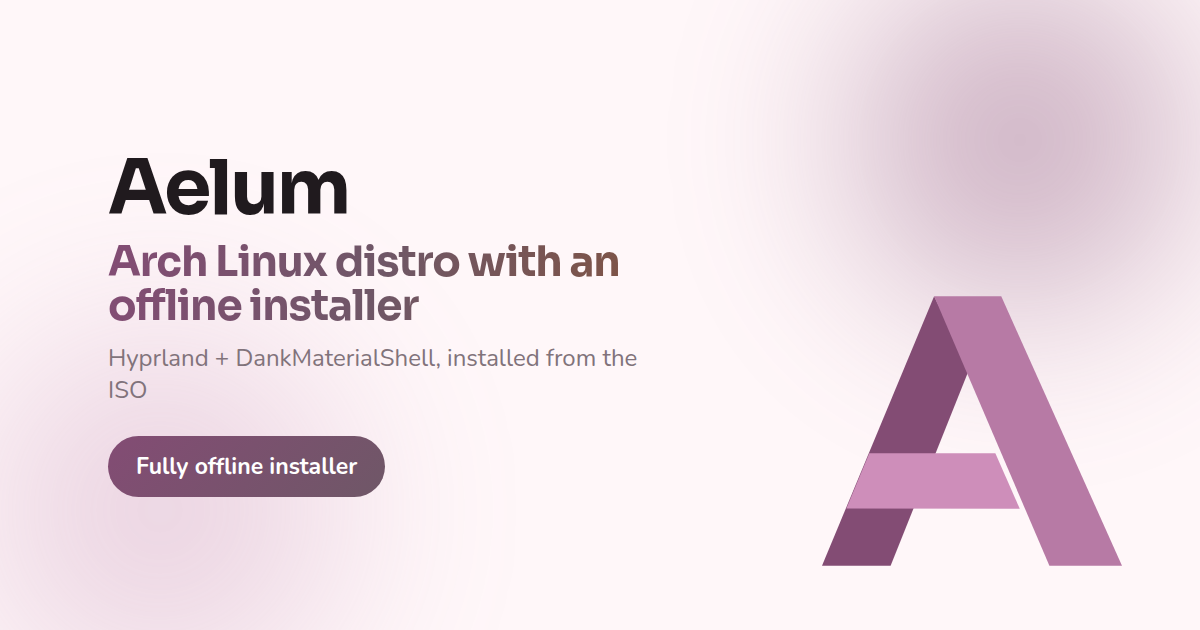
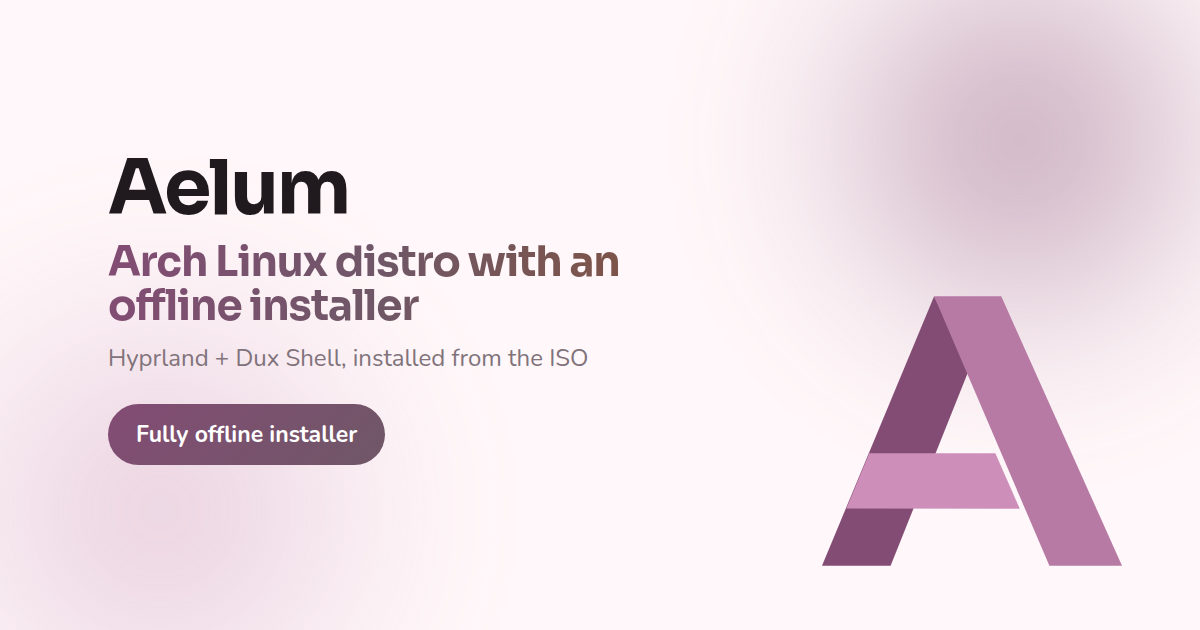
docs(copy): Dux Shell naming and the dux-shell repo link
og-image.png regenerated with npm run og-image. base.css comments changed; the
palette itself is unchanged and stays frozen.

Changed region(s): [[0.0925, 0.6032, 0.3392, 0.8143], [0.2158, 0.5429, 0.5242, 0.6032]]

diff --git a/src/styles/base.css b/src/styles/base.css
@@ -89,9 +89,9 @@
 
 :root {
   /* ----------------------------------------------------------
-     Palette — exported DankMaterialShell (DMS) light scheme.
-     Light uses the DMS light export; the dark block below uses
-     the DMS dark export, so the site matches the desktop.
+     Palette — exported Dux Shell (DMS) light scheme.
+     Light uses the Dux Shell light export; the dark block below uses
+     the Dux Shell dark export, so the site matches the desktop.
      ---------------------------------------------------------- */
   color-scheme: light;
 
@@ -107,7 +107,7 @@
   --text-dim: #4f444a;
   --text-faint: #81737b;
 
-  /* Accents (primary / secondary / tertiary from the DMS scheme) */
+  /* Accents (primary / secondary / tertiary from the Dux Shell scheme) */
   --accent: #834c74;
   --accent-2: #6f5767;
   --accent-3: #815341;
@@ -128,7 +128,7 @@
      Sora is the display voice (page + section titles only), Nunito is the
      reading voice (everything else, including card titles), JetBrains Mono is
      the engineering voice (commands, filenames, versions, checksums).
-     The palette above is the exported DankMaterialShell scheme and is frozen:
+     The palette above is the exported Dux Shell scheme and is frozen:
      it is the desktop's palette, not a website design choice.
      ---------------------------------------------------------- */
   --font-display: "Sora", "Nunito", system-ui, sans-serif;
@@ -183,7 +183,7 @@
   --t-spin: 14s;
 
   /* --- Gradient layers ---
-     The palette itself is frozen (it is the DMS export); these are the only
+     The palette itself is frozen (it is the Dux Shell export); these are the only
      gradients the site draws from it, so "the Aelum gradient" is one value. */
   --grad-brand: linear-gradient(104deg, var(--accent) 0%, var(--accent-3) 52%, var(--accent-2) 100%);
   --grad-brand-soft: linear-gradient(
@@ -242,7 +242,7 @@
   --dot-green: #27c93f;
 }
 
-/* Dark palette — exported DMS dark scheme.
+/* Dark palette — exported Dux Shell dark scheme.
    Near-black surfaces with a lavender primary. */
 [data-theme="dark"] {
   color-scheme: dark;

diff --git a/src/lib/site.ts b/src/lib/site.ts
@@ -22,7 +22,7 @@ export const mainRepo = "https://github.com/aelum-dev/live-iso";
 export const githubUrl = "https://github.com/aelum-dev";
 export const installerRepo = "https://github.com/aelum-dev/installer";
 export const hyprlandUrl = "https://hyprland.org/";
-export const dmsUrl = "https://github.com/AvengeMedia/DankMaterialShell";
+export const duxShellUrl = "https://github.com/duxlabs-dev/dux-shell";
 export const wailsUrl = "https://wails.io/";
 export const ventoyUrl = "https://www.ventoy.net/en/download.html";
 export const balenaEtcherUrl = "https://etcher.balena.io/#download-etcher";
@@ -142,12 +142,12 @@ export const software: Software[] = [
   },
   {
     icon: "f108", // nerd-fonts: desktop
-    title: "DankMaterialShell",
+    title: "Dux Shell",
     description: "A complete Quickshell-based desktop shell.",
   },
   {
     icon: "f0342", // nerd-fonts: login
-    title: "DMS Greeter",
+    title: "Dux Greeter",
     description: "A fast login screen that matches the desktop theme.",
   },
   {
@@ -397,7 +397,7 @@ export const installSteps: Step[] = [
     num: "06",
     icon: "f0379", // nerd-fonts: monitor
     title: "Boot into it",
-    description: "Reboot, log in at the greeter, and the Hyprland + DankMaterialShell desktop is ready.",
+    description: "Reboot, log in at the greeter, and the Hyprland + Dux Shell desktop is ready.",
   },
 ];
 

diff --git a/scripts/og-image.html b/scripts/og-image.html
@@ -86,7 +86,7 @@
   <div class="copy">
     <div class="title">Aelum</div>
     <div class="subtitle">Arch Linux distro with an offline installer</div>
-    <div class="lead">Hyprland + DankMaterialShell, installed from the ISO</div>
+    <div class="lead">Hyprland + Dux Shell, installed from the ISO</div>
     <div class="chip">Fully offline installer</div>
   </div>
   <div class="logo"><img src="../public/logo.svg" alt="Aelum logo"></div>

diff --git a/README.md b/README.md
@@ -2,7 +2,7 @@
 
 This is the official landing site for [Aelum](https://github.com/aelum-dev/live-iso) and the [Aelum Installer](https://github.com/aelum-dev/installer), built with [Astro](https://astro.build/).
 
-Aelum is an Arch Linux distro with a **fully offline installer**. Boot the live ISO and the installer launches on its own — answer four questions and end up with a Hyprland + DankMaterialShell desktop. The install needs no internet; once it's installed, your system uses the internet like any other Arch machine.
+Aelum is an Arch Linux distro with a **fully offline installer**. Boot the live ISO and the installer launches on its own — answer four questions and end up with a Hyprland + Dux Shell desktop. The install needs no internet; once it's installed, your system uses the internet like any other Arch machine.
 
 ## What's on the site
 
@@ -16,7 +16,7 @@ Four real routes, one Astro page each.
   6-step wizard grid.
 - **`/features/` — Features**: why Aelum (offline install, auto-launching installer, optional LUKS2,
   dual-boot-safe manual partitioning, ext4/btrfs, silent boot, auto monitor scaling, GUI or CLI),
-  **What you install** (Hyprland, DankMaterialShell, DMS greeter, matugen, GTK/Qt theming, Kitty,
+  **What you install** (Hyprland, Dux Shell, Dux Greeter, matugen, GTK/Qt theming, Kitty,
   Firefox, Aelum splash), the 28-language marquee, and **CLI** headless install examples.
 - **`/download/` — Download**: the ISO, its SHA-256/SHA-512 checksums, the GPG signature, the signing
   key fetched via WKD, copyable verification commands, and flashing tools (Ventoy, BalenaEtcher, dd).
@@ -100,7 +100,7 @@ Run `npm run check` (Biome + `astro check`) before committing.
   state and its active pill, scroll reveal, copy buttons, pointer effects, count-up numbers) and
   `theme.js` owns the theme plus the theme-matched screenshots. Everything in them is enhancement.
 - The palette and glassy cards echo the **Material-You** look of the desktop the installer ships. The
-  scheme itself is the exported DankMaterialShell light/dark palette and is not a website choice.
+  scheme itself is the exported Dux Shell light/dark palette and is not a website choice.
 - The site is a static site — no backend, no API calls, no network requests to serve it. Fonts are
   self-hosted woff2 files under `src/styles/fonts/`; screenshots are served from `public/images/` as
   content-hashed AVIF with a single WebP fallback each.

diff --git a/AGENTS.md b/AGENTS.md
@@ -91,10 +91,10 @@ npm run format                # the generated manifest is committed biome-format
 
 ## Design Guidance
 
-- Material-You / glassy aelum mirroring the Aelum desktop (Hyprland + DankMaterialShell).
-- **The palette is frozen.** `--bg`, `--accent`, … in `base.css` are the exported DankMaterialShell
+- Material-You / glassy aelum mirroring the Aelum desktop (Hyprland + Dux Shell).
+- **The palette is frozen.** `--bg`, `--accent`, … in `base.css` are the exported Dux Shell
   light/dark scheme and must stay identical to the desktop's. Do not "improve" the colours here —
-  change them in DMS. Overhauls change type, layout and motion, not the scheme.
+  change them in Dux Shell. Overhauls change type, layout and motion, not the scheme.
 - **Motion is a system, not per-component improvisation.** Everything decorative in `base.css`:
   the ambient field (`.bg-aurora` / `.bg-grid` / `.bg-grain` / `.bg-spot`), the conic rim used by
   cards, the CTA panel, the CLI window and the theme toggle, the button spotlight, `.eyebrow` sheen +
